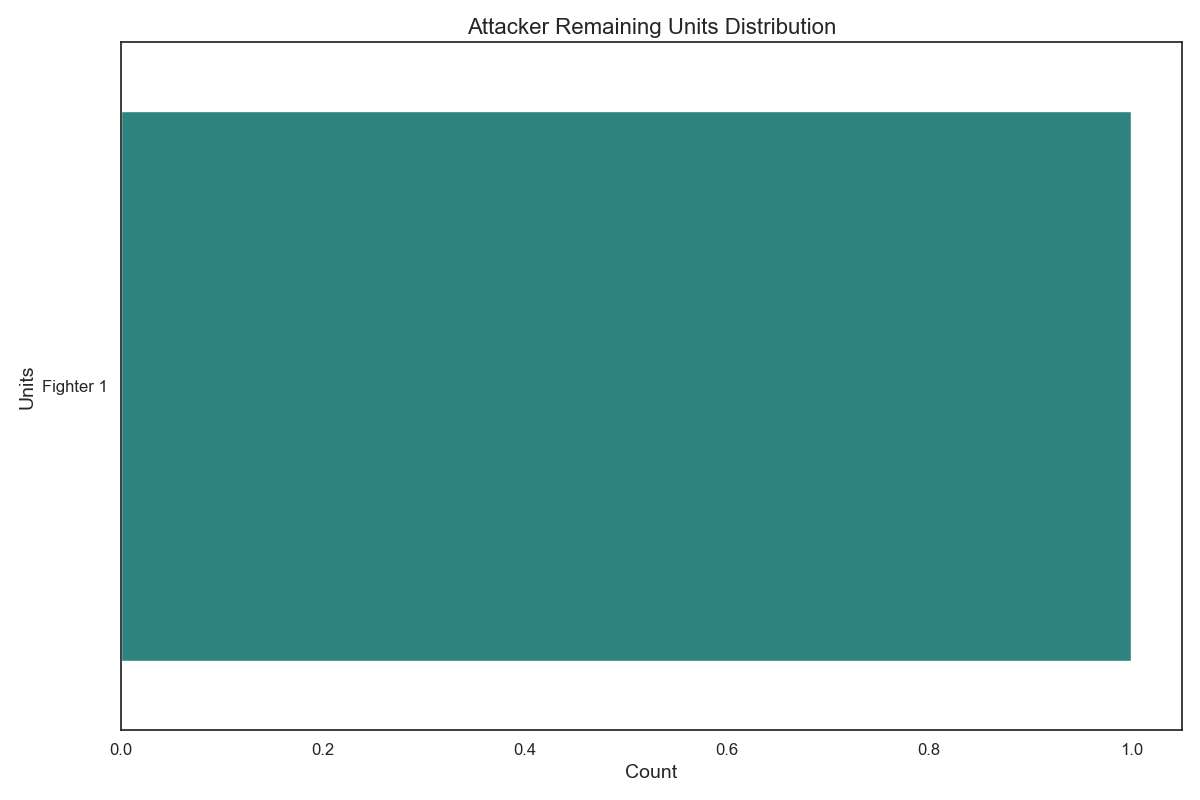
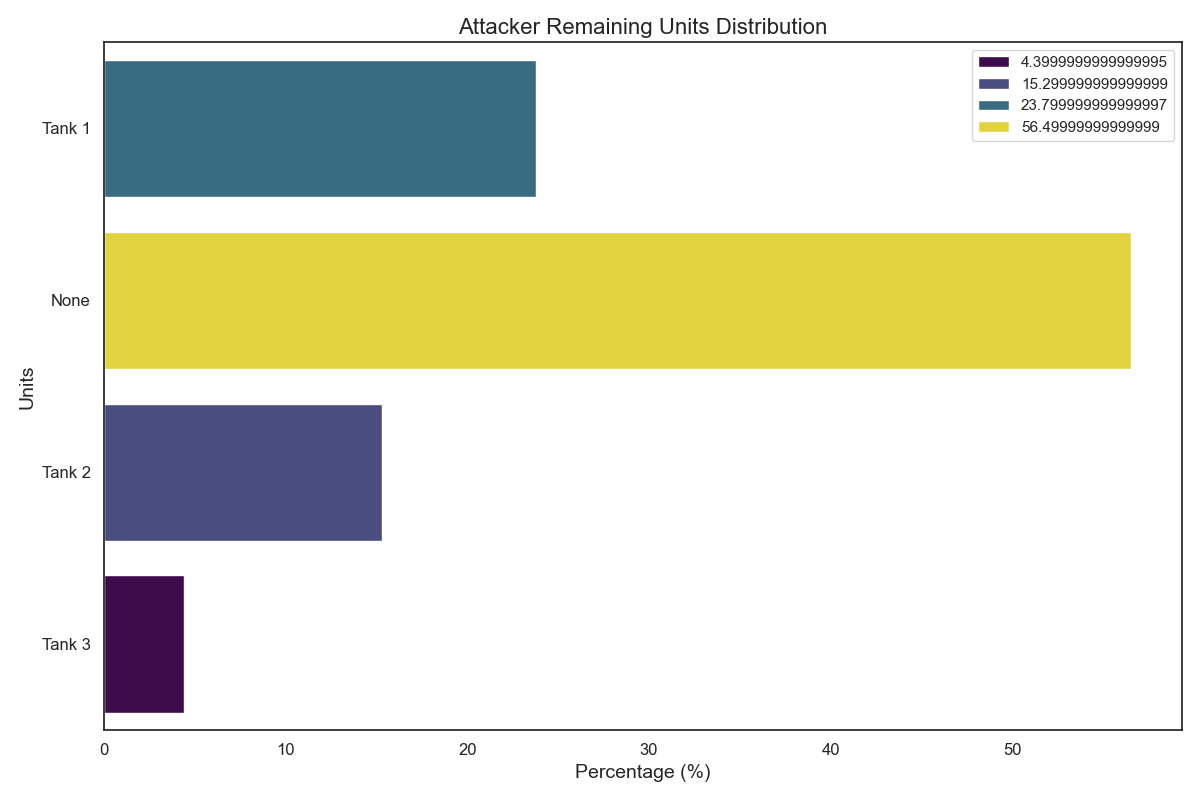
moved over to plotly to show %s instead of raw units in the graphs

diff --git a/templates/result.html b/templates/result.html
@@ -5,6 +5,7 @@
     <meta name="viewport" content="width=device-width, initial-scale=1, shrink-to-fit=no">
     <link href="https://stackpath.bootstrapcdn.com/bootstrap/4.5.2/css/bootstrap.min.css" rel="stylesheet">
     <title>Battle Result</title>
+    <script src="https://cdn.plot.ly/plotly-latest.min.js"></script>
 </head>
 <body>
     <div class="container mt-5">
@@ -21,10 +22,12 @@
 <!--                    <li class="list-group-item">{{ units | format_key }}: {{ count }}</li>-->
 <!--                {% endfor %}-->
                 </ul>
-                <img src="{{ attacker_plot_path }}" alt="Attacker Remaining Units Distribution" class="img-fluid mt-3">
-                {% for image_path in attacker_rxr_images %}
-                    <img src="{{ image_path }}" alt="Attacker Image" class="img-fluid mt-3">
-                {% endfor %}
+                <div class="plot-container">
+                    {{ attacker_plot_html | safe }}
+                </div>
+<!--                {% for image_path in attacker_rxr_images %}-->
+<!--                    <img src="{{ image_path }}" alt="Attacker Image" class="img-fluid mt-3">-->
+<!--                {% endfor %}-->
             </div>
             <div class="col-md-6">
                 <h2>Defender Remaining Units After Each Win</h2>
@@ -33,9 +36,30 @@
 <!--                    <li class="list-group-item">{{ units | format_key }}: {{ count }}</li>-->
 <!--                {% endfor %}-->
                 </ul>
-                <img src="{{ defender_plot_path }}" alt="Defender Remaining Units Distribution" class="img-fluid mt-3">
-                {% for image_path in defender_rxr_images %}
-                    <img src="{{ image_path }}" alt="Defender Image" class="img-fluid mt-3">
+                <div class="plot-container">
+                    {{ defender_plot_html | safe }}
+                </div>
+<!--                {% for image_path in defender_rxr_images %}-->
+<!--                    <img src="{{ image_path }}" alt="Defender Image" class="img-fluid mt-3">-->
+<!--                {% endfor %}-->
+            </div>
+        </div>
+
+        <div class="row mt-5">
+            <div class="col-md-6">
+                <h2>Attacker Round-by-Round Results</h2>
+                {% for round_num, plots in attacker_round_plots.items() %}
+                    <div class="plot-container" id="attacker-round-plot-{{ round_num }}">
+                        {{ plots|join("")|safe }}
+                    </div>
+                {% endfor %}
+            </div>
+            <div class="col-md-6">
+                <h2>Defender Round-by-Round Results</h2>
+                {% for round_num, plots in defender_round_plots.items() %}
+                    <div class="plot-container" id="defender-round-plot-{{ round_num }}">
+                        {{ plots|join("")|safe }}
+                    </div>
                 {% endfor %}
             </div>
         </div>

diff --git a/templates/index.html b/templates/index.html
@@ -67,7 +67,7 @@
                     </div>
                     <div class="form-group mt-4">
                         <label for="number_of_simulations">Number of Simulations:</label>
-                        <input type="number" class="form-control" id="number_of_simulations" name="number_of_simulations" min="1" value="{{ form_data.get('number_of_simulations', 1) }}">
+                        <input type="number" class="form-control" id="number_of_simulations" name="number_of_simulations" min="1" value="{{ form_data.get('number_of_simulations', 1000) }}">
                     </div>
                     <div class="row mt-4">
                         <div class="col-12">

diff --git a/routers/simulate.py b/routers/simulate.py
@@ -5,7 +5,6 @@ from functs.run_multiple_battle_sim import run_multiple_battle_sims
 from functs.plot_results import plot_results
 from functs.plot_round_results import plot_round_results
 import shutil
-
 from collections import defaultdict
 import os
 
@@ -103,20 +102,13 @@ async def simulate_battle_endpoint(request: Request,
     os.makedirs('static/attacker_rxr')
     shutil.rmtree('static/defender_rxr')
     os.makedirs('static/defender_rxr')
-    attacker_plot_path = "static/attacker_plot.png"
-    defender_plot_path = "static/defender_plot.png"
+    attacker_plot_html = plot_results(filtered_attacker_remaining_units_count, "Attacker Remaining Units Distribution")
+    defender_plot_html = plot_results(filtered_defender_remaining_units_count, "Defender Remaining Units Distribution")
     attacker_rxr_plot_path = "static/attacker_rxr/attacker_rxr_plot"
     defender_rxr_plot_path = "static/defender_rxr/defender_rxr_plot"
 
-
-    plot_results(filtered_attacker_remaining_units_count, "Attacker Remaining Units Distribution", attacker_plot_path)
-    plot_results(filtered_defender_remaining_units_count, "Defender Remaining Units Distribution", defender_plot_path)
-    plot_round_results(battle_history_attacking_df, attacker_rxr_plot_path)
-    # print("THIS IS THE BATTLE HISTORY FOR THE DEFENDER")
-    # print(battle_history_defending_df)
-    plot_round_results(battle_history_defending_df, defender_rxr_plot_path)
-    attacker_images = get_image_paths('static/attacker_rxr')
-    defender_images = get_image_paths('static/defender_rxr')
+    attacker_round_plots = plot_round_results(battle_history_attacking_df, attacker_rxr_plot_path, number_of_simulations)
+    defender_round_plots = plot_round_results(battle_history_defending_df, defender_rxr_plot_path, number_of_simulations)
 
     form_data = {
         "attack_infantry": attack_infantry,
@@ -151,11 +143,11 @@ async def simulate_battle_endpoint(request: Request,
         "ties": ties,
         "attacker_remaining_units_count": dict(filtered_attacker_remaining_units_count),
         "defender_remaining_units_count": dict(filtered_defender_remaining_units_count),
-        "attacker_plot_path": "/" + attacker_plot_path,
-        "defender_plot_path": "/" + defender_plot_path,
+        "attacker_plot_html": attacker_plot_html,
+        "defender_plot_html": defender_plot_html,
         "initial_attacking_units": initial_attacking_units,
         "initial_defending_units": initial_defending_units,
         "form_data": form_data,
-        "attacker_rxr_images": [img for img in attacker_images],
-        "defender_rxr_images": [img_d for img_d in defender_images]
+        "attacker_round_plots": attacker_round_plots,
+        "defender_round_plots": defender_round_plots
     })

diff --git a/functs/run_battle_simulation.py b/functs/run_battle_simulation.py
@@ -36,7 +36,6 @@ def run_battle_simulation(attacking_units, defending_units):
     naval_bomb_hits = 0
 
     # Roll for anti-aircraft gun
-    # print("IN THE AA MODULE")
     num_anti_aircraft = defending_units.get("AA", 0)
     num_fighters = attacking_units.get("Fighter", 0)
     num_bombers = attacking_units.get("Bomber", 0)
@@ -65,36 +64,24 @@ def run_battle_simulation(attacking_units, defending_units):
     num_attacking_land_units = num_attack_infantry + num_attack_artillery + num_attack_tank
     num_attacking_naval_units = num_attack_cruiser + num_attack_battleship
 
-    print(f"attacking units: {attacking_units}")
-
     if num_attacking_land_units > 0 and num_attacking_naval_units > 0:
         bombardment_units = {key: value for key, value in attacking_units.items() if key in ["Cruiser", "Battleship"]}
-        print(f"bombardment units: {bombardment_units}")
         for unit, count in bombardment_units.items():
             for _ in range(count):
-                print(f"unit, count: {unit, count}")
                 attack_value = units[unit]["attack"]
                 roll = random.randint(1, 6)
                 if roll <= attack_value:
                     naval_bomb_hits += 1
-                    print(f"naval hits: {naval_bomb_hits}")
 
         attacking_units = {key: value for key, value in attacking_units.items() if key not in ["Cruiser", "Battleship"]}
-        print(f"attacking units minus naval bomb units: {attacking_units}")
 
-
-    # print("IN THE MAIN BATTLE MODULE")
+    #main battle module
     while sum(attacking_units.values()) > 0 and sum(defending_units.values()) > 0:
-        # print(f"Battle round: {battle_round}")
         battle_round += 1
         attack_hits, defense_hits, attacking_units, defending_units = simulate_battle(attacking_units, defending_units)
-        print(f"defending units: {defending_units}")
-        print(f"Attack Hits: {attack_hits}")
-        print(f"Defense Hits: {defense_hits}")
 
         if battle_round == 1:
             defending_units = remove_hits(defending_units, naval_bomb_hits)
-            print(f"defending units after naval bomb: {defending_units}")
 
         # Filter out keys with 0 values
         filtered_attacking_units = remove_zero_values_and_convert_to_string(attacking_units)
@@ -114,10 +101,6 @@ def run_battle_simulation(attacking_units, defending_units):
         outcome = "defender win"
     else:
         outcome = "attacker win"
-
-    # print(battle_round)
-    # print(battle_history_attacking)
-    # print(attacking_units)
 
     return outcome, attacking_units, defending_units, df_attacking_rounds, df_defending_rounds
 

diff --git a/functs/plot_round_results.py b/functs/plot_round_results.py
@@ -1,33 +1,45 @@
 import pandas as pd
-import seaborn as sns
-import matplotlib.pyplot as plt
-import pandas as pd
+import plotly.express as px
+import plotly.io as pio
+from collections import defaultdict
 
-def plot_round_results(df, filename_prefix):
-    # print("THIS IS THE DATAFRAME THAT IS PASSED INTO THE FUNCTION")
-    # print(df)
-    round_df = pd.DataFrame()
-    # print("THIS IS THE FRESH ROUND_DF")
-    # print(round_df)
+def plot_round_results(df, filename_prefix, num_simulations):
     rounds = df['Round'].unique()
-    # print("THIS IS THE # OF ROUNDS")
-    # print(rounds)
+    plot_htmls = defaultdict(list)
 
     for round_num in rounds:
-        filename = str(f"{filename_prefix}_{round_num}.png")
+        filename = str(f"{filename_prefix}_{round_num}.html")
         round_df = df[df['Round'] == round_num]
-        #round_df = round_df.sort_values(by='Count', ascending=False)
-        # print(f"THIS IS THE DATAFRAME FOR ROUND {round_num}")
-        # print(round_df)
 
 
-        plt.figure(figsize=(10, 6))
-        sns.barplot(x='Count', y='Units', data=round_df, palette='muted', hue='Units', legend=False)
-        plt.title(f'Count by Units for Round {round_num}')
-        plt.xticks(rotation=90)
-        plt.tight_layout()
+        round_df['Percentage'] = (round_df['Count'] / num_simulations) * 100  # Convert to percentage
 
-        # Save the figure
-        plt.savefig(filename)
-        plt.close()
+        fig = px.bar(
+            round_df,
+            x='Percentage',
+            y='Units',
+            orientation='h',
+            title=f'Count by Units for Round {round_num}',
+            text='Percentage',
+            color='Units',
+            color_discrete_sequence=['#F4A460']  # Set bar color
+        )
+
+        fig.update_traces(texttemplate='%{text:.2f}%', textposition='outside')
+        fig.update_layout(
+            yaxis=dict(autorange="reversed"),
+            showlegend=False,
+            plot_bgcolor='#4e4e4d',
+            paper_bgcolor='#4e4e4d',
+            font=dict(color='white')
+        )
+        fig.update_xaxes(range=[0, 100])  # Ensure x-axis goes to 100%
+
+        # Save the figure as an HTML file
+        pio.write_html(fig, file=filename, full_html=False, include_plotlyjs='cdn')
+
+        # Collect the HTML content
+        plot_htmls[round_num].append(pio.to_html(fig, full_html=False, include_plotlyjs='cdn'))
+
+    return plot_htmls
 

diff --git a/functs/plot_results.py b/functs/plot_results.py
@@ -1,13 +1,18 @@
-import matplotlib.pyplot as plt
-import seaborn as sns
+from fastapi import FastAPI, Request
+from fastapi.templating import Jinja2Templates
+import plotly.express as px
+import pandas as pd
 from collections import defaultdict
+
+app = FastAPI()
+templates = Jinja2Templates(directory="templates")
 
 def format_key(key):
     if not key or all(not unit for unit in key):
         return 'None'
     return ', '.join([f"{unit} {num}" for unit, num in key])
 
-def plot_results(units_count, title, filename):
+def plot_results(units_count, title):
     units_dict = defaultdict(int)
     for units, count in units_count.items():
         units_dict[units] += count
@@ -15,18 +20,22 @@ def plot_results(units_count, title, filename):
     labels = []
     values = []
 
+    total_count = sum(units_dict.values())
+
     for units, count in units_dict.items():
         labels.append(format_key(units))
-        values.append(count)
+        values.append((count / total_count) * 100)  # Convert to percentage
 
-    sns.set(style="white")
-    plt.figure(figsize=(12, 8))
-    barplot = sns.barplot(x=values, y=[str(label) for label in labels], palette="viridis", hue=values, legend=False)
-    barplot.set_xlabel('Count', fontsize=14)
-    barplot.set_ylabel('Units', fontsize=14)
-    barplot.set_title(title, fontsize=16)
-    plt.xticks(fontsize=12)
-    plt.yticks(fontsize=12)
-    plt.tight_layout()
-    plt.savefig(filename)
-    plt.close()
+    df = pd.DataFrame({'Units': labels, 'Percentage': values})
+    fig = px.bar(df, x='Percentage', y='Units', orientation='h', title=title, text='Percentage')
+    fig.update_traces(texttemplate='%{text:.2f}%', textposition='outside', marker_color='#F4A460')
+    fig.update_layout(
+        yaxis=dict(autorange="reversed"),
+        showlegend=False,
+        #plot_bgcolor='#4e4e4d',
+        #paper_bgcolor='#4e4e4d',
+        #font=dict(color='white')
+    )
+    fig.update_xaxes(range=[0, 120])  # Ensure x-axis goes to 100%
+
+    return fig.to_html(full_html=False, include_plotlyjs='cdn')

diff --git a/functs/run_multiple_battle_sim.py b/functs/run_multiple_battle_sim.py
@@ -19,10 +19,6 @@ def run_multiple_battle_sims(attacking_units, defending_units, num_of_simulation
         battle_history_attacking_df = pd.concat([df_attacking_rounds,battle_history_attacking_df], ignore_index=True).groupby(['Round', 'Units']).sum().reset_index()
         battle_history_defending_df = pd.concat([df_defending_rounds,battle_history_defending_df], ignore_index=True).groupby(['Round', 'Units']).sum().reset_index()
 
-        # battle_history_attacking_count[tuple(battle_history_attacking)] += 1
-        # print(battle_history_attacking_count)
-        # battle_history_defending_count[tuple(battle_history_defending.items())] += 1
-
         if outcome == "tie":
             ties += 1
             defender_remaining_units_count[tuple(remaining_defending_units.items())] += 1
